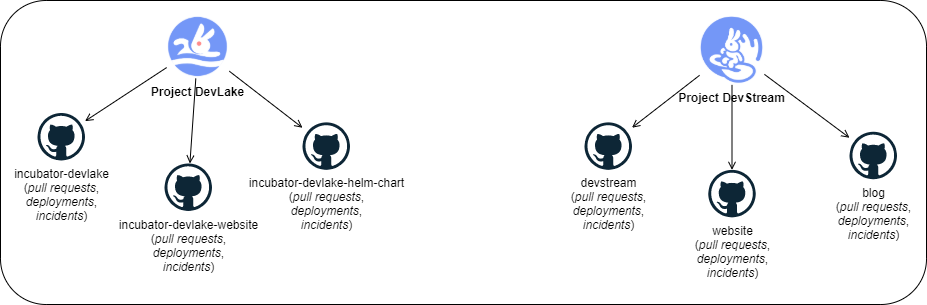
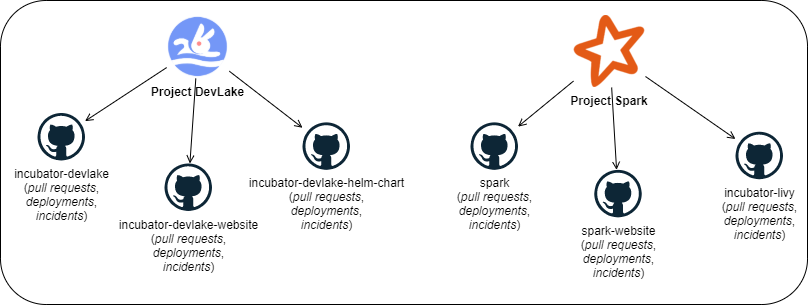
Co-authored-by: Startrekzky <kaiyun.zhang@merico.dev> docs: rework use case   * change one of the example projects

diff --git a/docs/_temp/HowToOrganizeDevlakeProjects.md b/docs/_temp/HowToOrganizeDevlakeProjects.md
@@ -64,13 +64,20 @@ so if you read this page for the first time, make sure to go through them in ord
 
 Quick note 2: if you use webhooks, check the [quick note](HowToOrganizeDevlakeProjects.md#5-note-about-webhooks) about them below.
 
-### 4.1. Use Case 1: Projects DevLake and DevStream
-DevLake and [DevStream](https://github.com/devstream-io/devstream) are both Apache `projects`.
+### 4.1. Use Case 1: Apache Projects
+Apache Software Foundation (ASF) has and is developing many
+[projects](https://en.wikipedia.org/wiki/List_of_Apache_Software_Foundation_projects).
+
+To take an example we will analyze 2 `projects`: DevLake and [Spark](https://spark.apache.org/).
+Both are independent to each other. Assume that ASF wants to check the health of the development
+and maintenance of these projects with DORA.
+
 DevLake manages 3 `repos`: [incubator-devlake](https://github.com/apache/incubator-devlake), 
 [incubator-devlake-website](https://github.com/apache/incubator-devlake-website), 
 and [incubator-devlake-helm-chart](https://github.com/apache/incubator-devlake-helm-chart).
-DevStream also manages 3 `repos`: [devstream](https://github.com/devstream-io/devstream),
-[website](https://github.com/devstream-io/website), and [blog](https://github.com/devstream-io/blog).
+There are many repositories related to _Spark_ one way or another. To keep it simple, 
+we will also pick 3 `repos`: [spark](https://github.com/apache/spark),
+[spark-website](https://github.com/apache/spark-website), and [incubator-livy](https://github.com/apache/incubator-livy).
 
 ![](project_use_case_1.png)
 
@@ -80,7 +87,7 @@ _Note: to avoid confusion between DevLake as a `project` in this use case and De
 we will use complete names i.e. `project DevLake` and `platform DevLake` respectively._
 
 #### 4.1.1. Organizing Projects
-First, we create 2 `projects` on DevLake platform, representing both project DevLake and DevStream.
+First, we create 2 `projects` on DevLake platform, representing both projects DevLake and Spark.
 These steps will suffice for now:
 
 ![](create_project_1.png)
@@ -101,13 +108,13 @@ Same applies to `deployments`, a separate connection is needed in case they are 
 This part is described in [GitHub](/docs/Configuration/GitHub.md) connection configuration.
 For other platforms check the [Configuration Guide](/docs/Configuration)
 
-### 4.1.4 Using connections
+#### 4.1.4 Using connections
 
 At this point, we have projects and connections created on platform DevLake. 
 It is time to bind those connections to the projects. To do so, follow the steps
 described in the [Tutorial](/docs/Configuration/Tutorial.md).
 
-### 4.1.5 Resulting Metrics
+#### 4.1.5 Resulting Metrics
 
 To know if the data of a project is successfully collected go to your DORA Dashboard:
 
